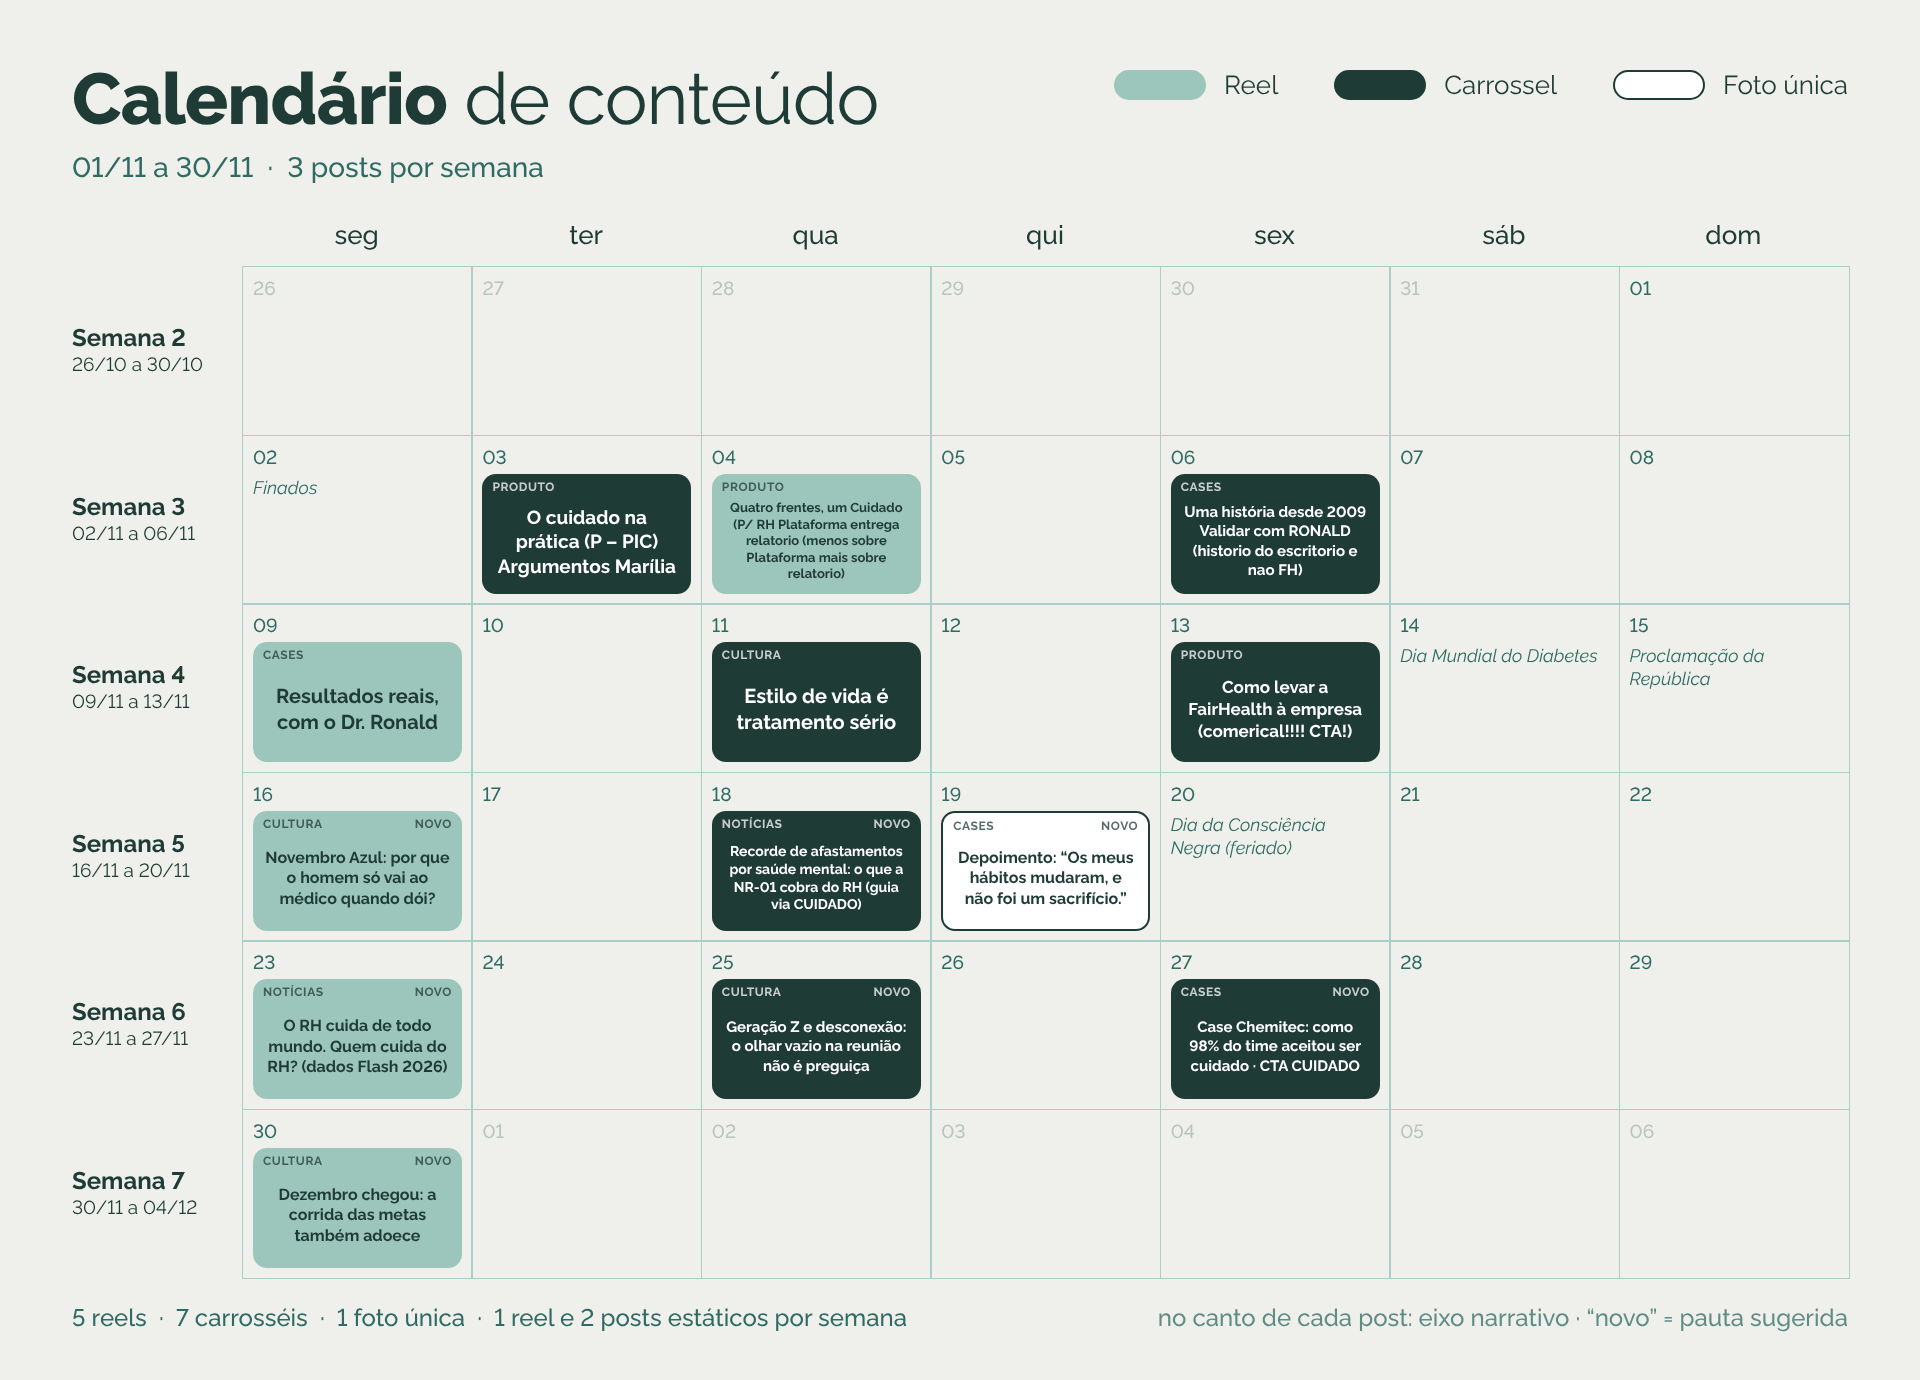
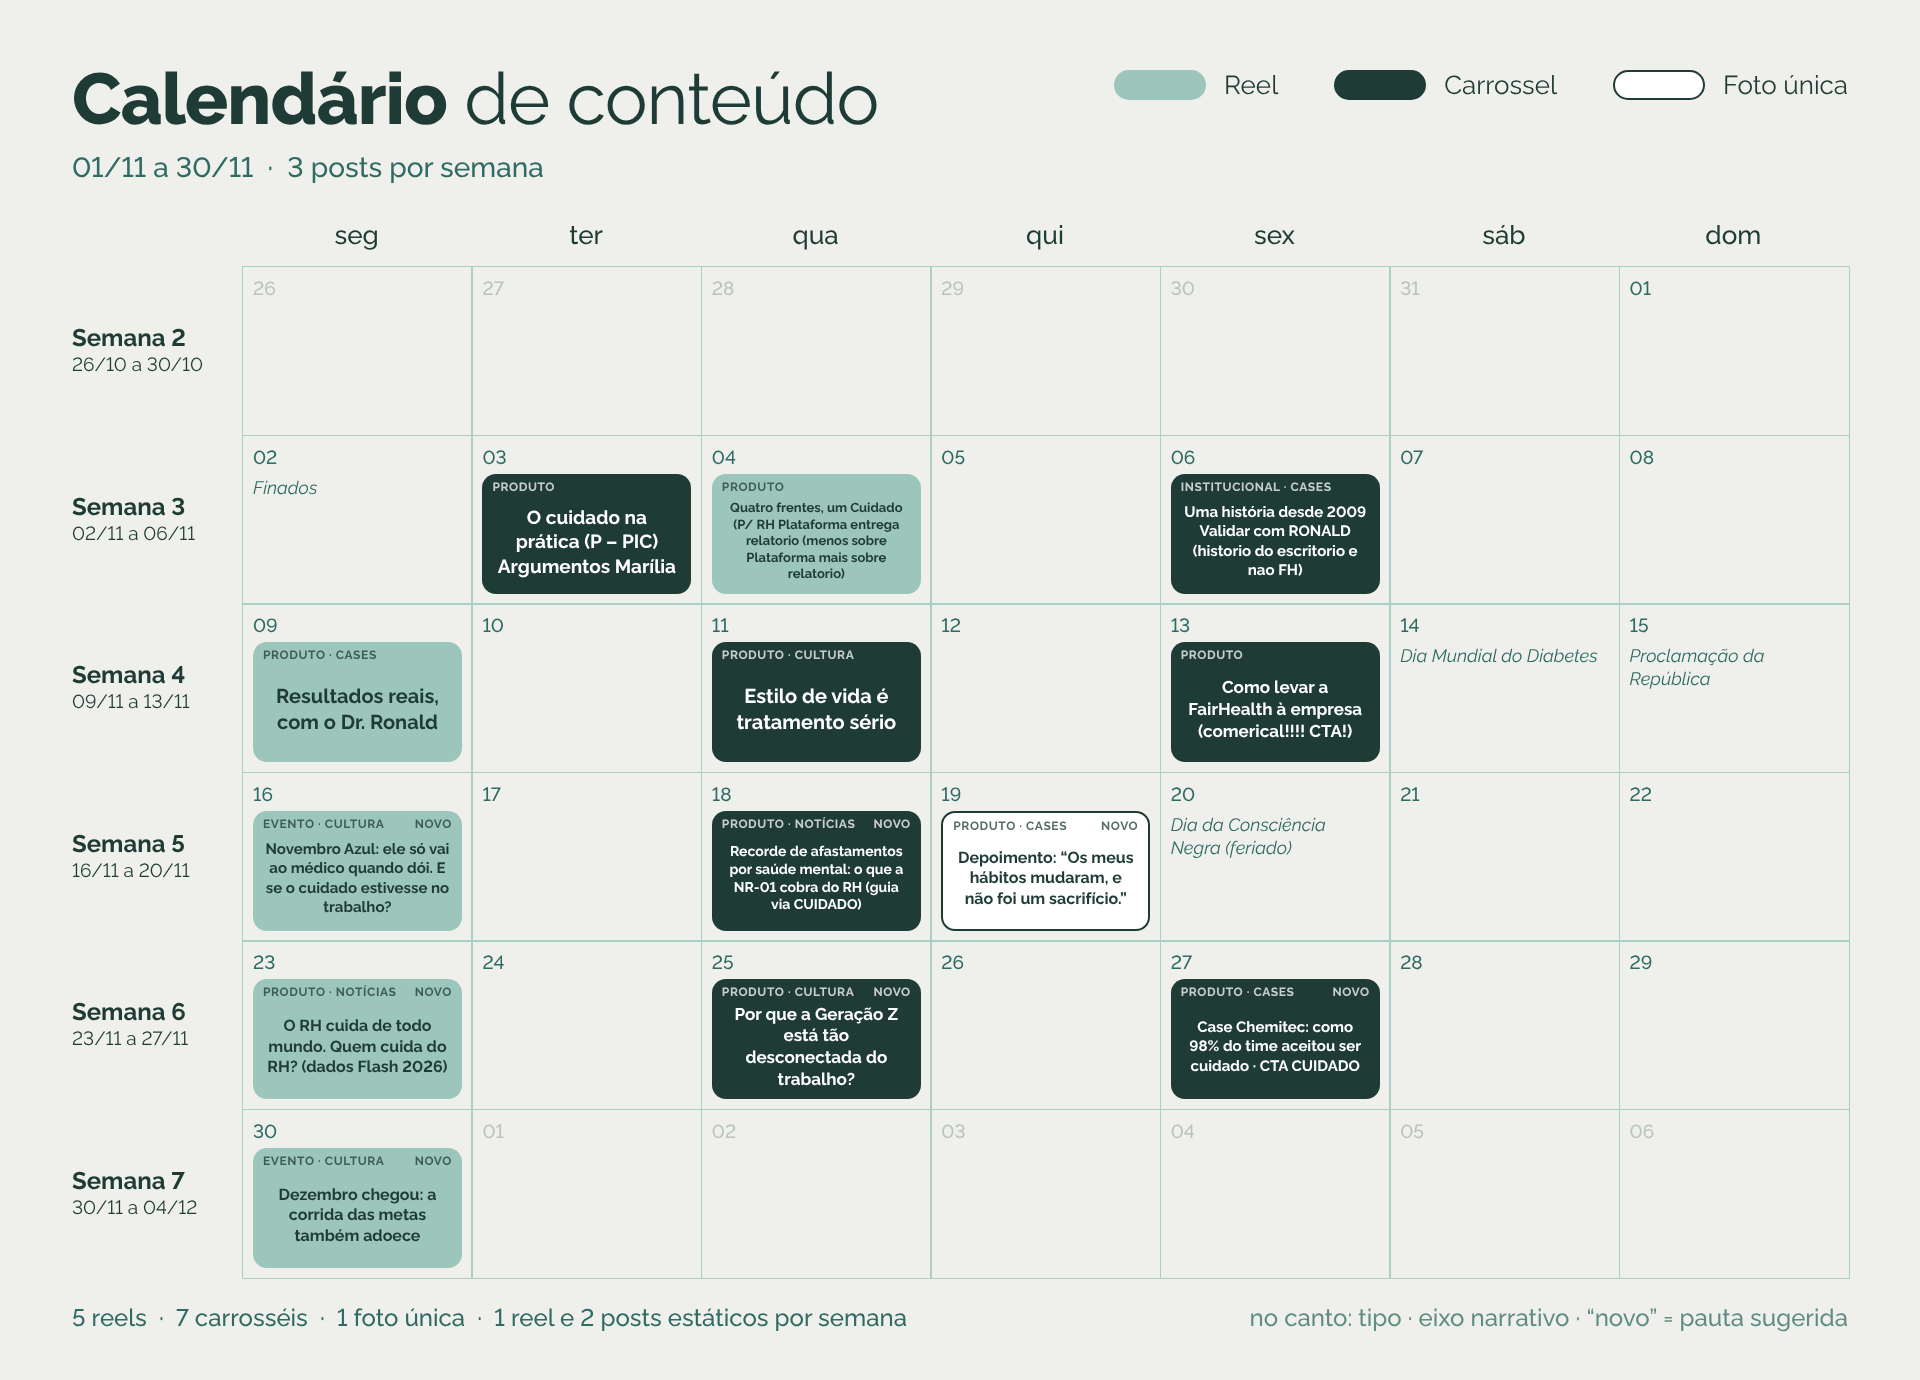
November calendar: tag each post as institucional, produto or evento
Also updates the 16/11 Novembro Azul and 25/11 Gen Z titles.

Claude-Session: https://claude.ai/code/session_01CtZHU3TZMahhA8PyMk16cb

diff --git a/marketing/calendario-novembro/calendario.html b/marketing/calendario-novembro/calendario.html
@@ -55,23 +55,24 @@ h1 b{font-weight:800}
 </section>
 <script>
 // Para editar: troque o texto ou o formato aqui (reel, carrossel ou foto).
-// [formato, texto, tamanho da fonte, novo?, eixo]
+// [formato, texto, tamanho da fonte, novo?, eixo, tipo]
+// tipo: institucional, produto ou evento.
 // novo: true marca as pautas sugeridas para completar o mês.
 // eixo: mercado, cases, cultura, notícias ou produto (ver instagram/carrossel-de-tendencia.md).
 const posts = {
-  '2026-11-03': ['carrossel', 'O cuidado na prática (P – PIC) Argumentos Marília', 19, false, 'produto'],
-  '2026-11-04': ['reel', 'Quatro frentes, um Cuidado (P/ RH Plataforma entrega relatorio (menos sobre Plataforma mais sobre relatorio)', 13, false, 'produto'],
-  '2026-11-06': ['carrossel', 'Uma história desde 2009 Validar com RONALD (historio do escritorio e nao FH)', 15, false, 'cases'],
-  '2026-11-09': ['reel', 'Resultados reais, com o Dr. Ronald', 20, false, 'cases'],
-  '2026-11-11': ['carrossel', 'Estilo de vida é tratamento sério', 20, false, 'cultura'],
-  '2026-11-13': ['carrossel', 'Como levar a FairHealth à empresa (comerical!!!! CTA!)', 17, false, 'produto'],
-  '2026-11-16': ['reel', 'Novembro Azul: por que o homem só vai ao médico quando dói?', 16, true, 'cultura'],
-  '2026-11-18': ['carrossel', 'Recorde de afastamentos por saúde mental: o que a NR-01 cobra do RH (guia via CUIDADO)', 14, true, 'notícias'],
-  '2026-11-19': ['foto', 'Depoimento: “Os meus hábitos mudaram, e não foi um sacrifício.”', 16, true, 'cases'],
-  '2026-11-23': ['reel', 'O RH cuida de todo mundo. Quem cuida do RH? (dados Flash 2026)', 16, true, 'notícias'],
-  '2026-11-25': ['carrossel', 'Geração Z e desconexão: o olhar vazio na reunião não é preguiça', 15, true, 'cultura'],
-  '2026-11-27': ['carrossel', 'Case Chemitec: como 98% do time aceitou ser cuidado · CTA CUIDADO', 15, true, 'cases'],
-  '2026-11-30': ['reel', 'Dezembro chegou: a corrida das metas também adoece', 16, true, 'cultura'],
+  '2026-11-03': ['carrossel', 'O cuidado na prática (P – PIC) Argumentos Marília', 19, false, 'produto', 'produto'],
+  '2026-11-04': ['reel', 'Quatro frentes, um Cuidado (P/ RH Plataforma entrega relatorio (menos sobre Plataforma mais sobre relatorio)', 13, false, 'produto', 'produto'],
+  '2026-11-06': ['carrossel', 'Uma história desde 2009 Validar com RONALD (historio do escritorio e nao FH)', 15, false, 'cases', 'institucional'],
+  '2026-11-09': ['reel', 'Resultados reais, com o Dr. Ronald', 20, false, 'cases', 'produto'],
+  '2026-11-11': ['carrossel', 'Estilo de vida é tratamento sério', 20, false, 'cultura', 'produto'],
+  '2026-11-13': ['carrossel', 'Como levar a FairHealth à empresa (comerical!!!! CTA!)', 17, false, 'produto', 'produto'],
+  '2026-11-16': ['reel', 'Novembro Azul: ele só vai ao médico quando dói. E se o cuidado estivesse no trabalho?', 15, true, 'cultura', 'evento'],
+  '2026-11-18': ['carrossel', 'Recorde de afastamentos por saúde mental: o que a NR-01 cobra do RH (guia via CUIDADO)', 14, true, 'notícias', 'produto'],
+  '2026-11-19': ['foto', 'Depoimento: “Os meus hábitos mudaram, e não foi um sacrifício.”', 16, true, 'cases', 'produto'],
+  '2026-11-23': ['reel', 'O RH cuida de todo mundo. Quem cuida do RH? (dados Flash 2026)', 16, true, 'notícias', 'produto'],
+  '2026-11-25': ['carrossel', 'Por que a Geração Z está tão desconectada do trabalho?', 17, true, 'cultura', 'produto'],
+  '2026-11-27': ['carrossel', 'Case Chemitec: como 98% do time aceitou ser cuidado · CTA CUIDADO', 15, true, 'cases', 'produto'],
+  '2026-11-30': ['reel', 'Dezembro chegou: a corrida das metas também adoece', 16, true, 'cultura', 'evento'],
 };
 const datas = {
   '2026-11-02': 'Finados',
@@ -99,7 +100,7 @@ for (let s = 0; s < 6; s++) {
     const p = !fora && posts[iso(d)];
     if (p) {
       cont[p[0]]++;
-      h += `<div class="post ${p[0]}${p[3] ? ' novo' : ''}" data-eixo="${p[4] || ''}" style="font-size:${p[2]}px">${p[1]}</div>`;
+      h += `<div class="post ${p[0]}${p[3] ? ' novo' : ''}" data-eixo="${[...new Set([p[5], p[4]].filter(Boolean))].join(' · ')}" style="font-size:${p[2]}px">${p[1]}</div>`;
     }
     if (!fora && datas[iso(d)]) h += `<span class="data">${datas[iso(d)]}</span>`;
     g.insertAdjacentHTML('beforeend', h + '</div>');
@@ -109,7 +110,7 @@ for (let s = 0; s < 6; s++) {
 const pl = (n, s, p) => `${n} ${n === 1 ? s : p}`;
 document.getElementById('rodape').innerHTML =
   `<span>${pl(cont.reel,'reel','reels')} &nbsp;·&nbsp; ${pl(cont.carrossel,'carrossel','carrosséis')} &nbsp;·&nbsp; ${pl(cont.foto,'foto única','fotos únicas')} &nbsp;·&nbsp; 1 reel e 2 posts estáticos por semana</span>` +
-  `<em>no canto de cada post: eixo narrativo · “novo” = pauta sugerida</em>`;
+  `<em>no canto: tipo · eixo narrativo · “novo” = pauta sugerida</em>`;
 </script>
 </body>
 </html>
